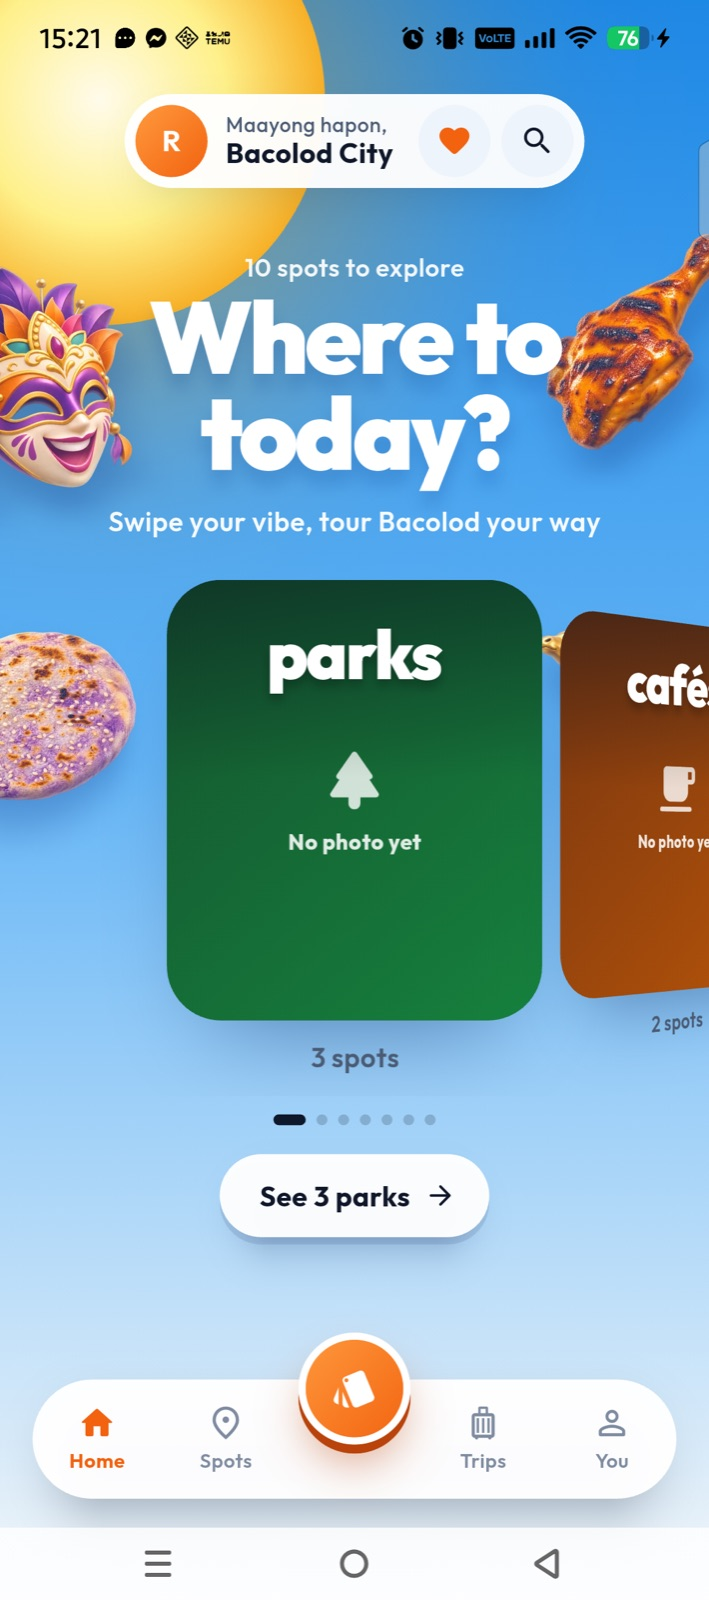
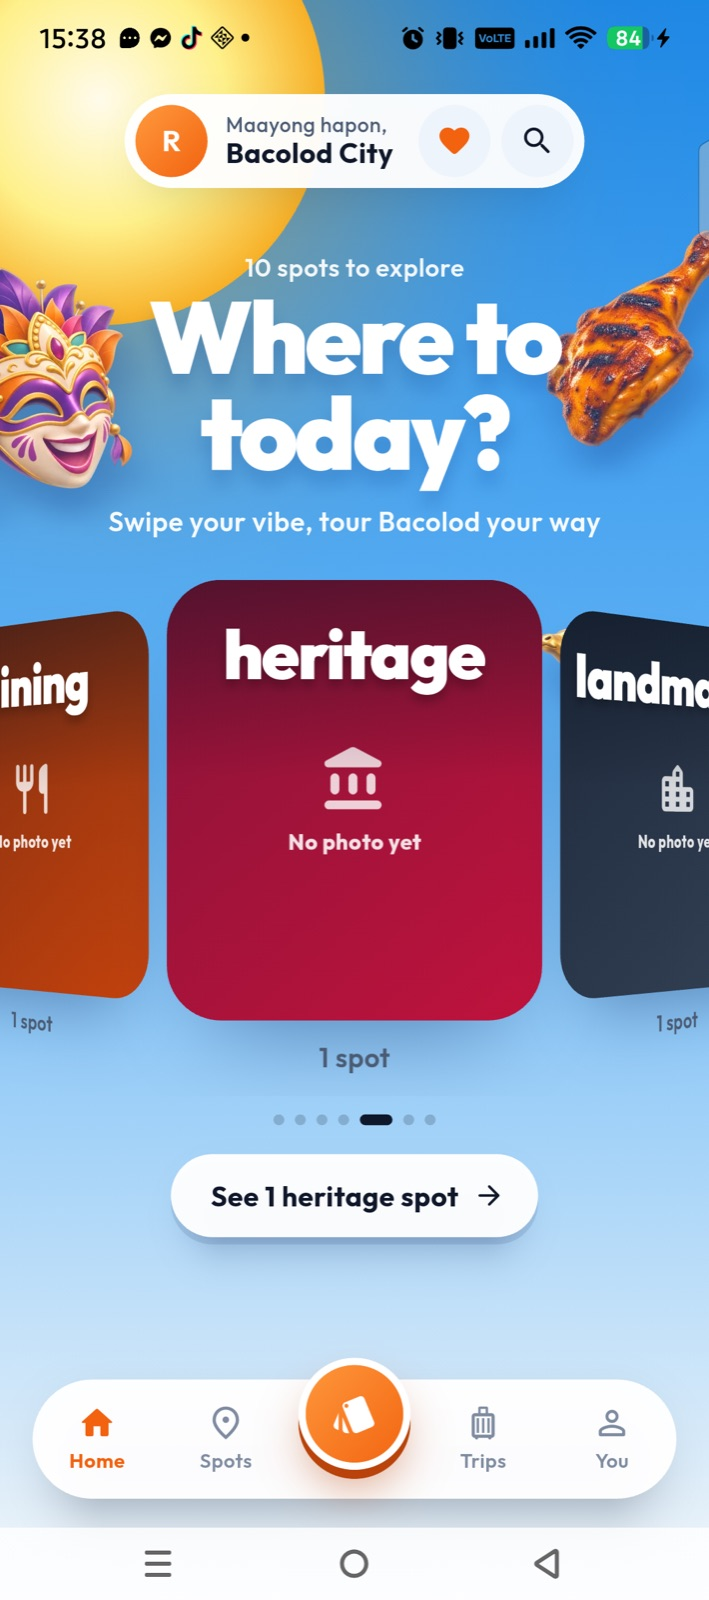
feat: home v3 feedback - open on heritage, lower swipe button, rolling close
Carousel always opens on heritage (or the middle card), the swipe button
sits lower in the nav, and tapping it rolls the card a full turn into the
close button at the same spot, with the options clear above it.

diff --git a/frontend/lib/screens/home/home_view.dart b/frontend/lib/screens/home/home_view.dart
@@ -52,6 +52,13 @@ class HomeCategory {
     'landmark': ('landmarks', 'landmark', 'landmarks'),
   };
 
+  /// Where the carousel opens: heritage when present (Roel's choice, so
+  /// cards peek from both sides), otherwise the middle card.
+  static int startPage(List<HomeCategory> cats) {
+    final heritage = cats.indexWhere((c) => c.id == 'heritage');
+    return heritage >= 0 ? heritage : cats.length ~/ 2;
+  }
+
   /// Categories by size (then name), each with a cover that has an
   /// approved photo when one exists. [home v3]
   static List<HomeCategory> fromLocations(
@@ -120,10 +127,8 @@ class HomeView extends StatefulWidget {
 
 class _HomeViewState extends State<HomeView>
     with SingleTickerProviderStateMixin {
-  late final PageController _pages = PageController(
-    viewportFraction: 0.56,
-    initialPage: 0,
-  );
+  /// Created with the first categories so it can open on heritage.
+  PageController? _pages;
   late final AnimationController _float = AnimationController(
     vsync: this,
     duration: const Duration(seconds: 6),
@@ -145,13 +150,20 @@ class _HomeViewState extends State<HomeView>
   void didUpdateWidget(HomeView old) {
     super.didUpdateWidget(old);
     if (_page >= widget.categories.length && widget.categories.isNotEmpty) {
-      _page = 0;
+      _page = HomeCategory.startPage(widget.categories);
     }
   }
 
+  /// Opens on the start page (heritage), so cards peek from both sides.
+  PageController _controllerFor(List<HomeCategory> cats) =>
+      _pages ??= PageController(
+        viewportFraction: 0.56,
+        initialPage: _page = HomeCategory.startPage(cats),
+      );
+
   @override
   void dispose() {
-    _pages.dispose();
+    _pages?.dispose();
     _float.dispose();
     super.dispose();
   }
@@ -160,6 +172,7 @@ class _HomeViewState extends State<HomeView>
   Widget build(BuildContext context) {
     final width = MediaQuery.sizeOf(context).width.clamp(320.0, 430.0);
     final cats = widget.categories;
+    if (cats.isNotEmpty) _controllerFor(cats);
     final current = cats.isEmpty ? null : cats[_page.clamp(0, cats.length - 1)];
 
     return Stack(
@@ -454,16 +467,17 @@ class _HomeViewState extends State<HomeView>
   // --- Category carousel --------------------------------------------------
 
   Widget _carousel(List<HomeCategory> cats) {
+    final pages = _controllerFor(cats);
     return PageView.builder(
       key: const ValueKey('home-carousel'),
-      controller: _pages,
+      controller: pages,
       itemCount: cats.length,
       onPageChanged: (i) => setState(() => _page = i),
       itemBuilder: (context, i) => AnimatedBuilder(
-        animation: _pages,
+        animation: pages,
         builder: (context, child) {
-          final page = _pages.hasClients && _pages.position.haveDimensions
-              ? _pages.page ?? _page.toDouble()
+          final page = pages.hasClients && pages.position.haveDimensions
+              ? pages.page ?? _page.toDouble()
               : _page.toDouble();
           final delta = (i - page).clamp(-1.0, 1.0);
           return Transform(
@@ -490,7 +504,7 @@ class _HomeViewState extends State<HomeView>
       key: ValueKey('home-category-${cat.id}'),
       onTap: () => index == _page
           ? widget.onSeeCategory(cat.id)
-          : _pages.animateToPage(
+          : _pages!.animateToPage(
               index,
               duration: const Duration(milliseconds: 320),
               curve: Curves.easeOutCubic,

diff --git a/frontend/test/home_v3_test.dart b/frontend/test/home_v3_test.dart
@@ -54,6 +54,7 @@ void main() {
         credits: ImageCredits(const []),
       );
       expect(cats.map((c) => c.id), ['park', 'cafe', 'heritage']);
+      expect(HomeCategory.startPage(cats), 2);
       expect(cats.map((c) => c.count), [3, 2, 1]);
       expect(cats[0].word, 'parks');
       expect(cats[0].seeLabel, 'See 3 parks');
@@ -61,6 +62,14 @@ void main() {
       expect(cats[2].seeLabel, 'See 1 heritage spot');
       expect(cats[2].countLabel, '1 spot');
       expect(cats[0].countLabel, '3 spots');
+    });
+
+    test('starts on heritage, or the middle card without one', () {
+      final noHeritage = HomeCategory.fromLocations(
+        _places.where((p) => p.category != 'heritage').toList(),
+        credits: ImageCredits(const []),
+      );
+      expect(HomeCategory.startPage(noHeritage), 1);
     });
 
     test('prefers a place with an approved photo as the cover', () {
@@ -128,8 +137,9 @@ void main() {
       expect(find.text('6 spots to explore'), findsOneWidget);
       expect(find.byKey(const ValueKey('home-headline')), findsOneWidget);
       expect(find.text('3'), findsOneWidget);
-      expect(find.text('parks'), findsOneWidget);
-      expect(find.text('See 3 parks'), findsOneWidget);
+      // Opens on heritage so neighbors can peek from the side.
+      expect(find.text('heritage'), findsOneWidget);
+      expect(find.text('See 1 heritage spot'), findsOneWidget);
       expect(find.text('Maayong Aga, Roel!'), findsNothing);
     });
 
@@ -139,14 +149,14 @@ void main() {
       await tester.tap(find.byKey(const ValueKey('home-saved')));
       await tester.tap(find.byKey(const ValueKey('home-search')));
       await tester.tap(find.byKey(const ValueKey('home-account')));
-      expect(seen, ['see:park', 'saved', 'search', 'account']);
+      expect(seen, ['see:heritage', 'saved', 'search', 'account']);
     });
 
     testWidgets('the see pill follows the carousel', (tester) async {
       await pump(tester);
       await tester.drag(
         find.byKey(const ValueKey('home-carousel')),
-        const Offset(-260, 0),
+        const Offset(260, 0),
       );
       await tester.pump(const Duration(milliseconds: 600));
       expect(find.text('See 2 cafés'), findsOneWidget);

diff --git a/frontend/lib/widgets/lagaw_nav_bar.dart b/frontend/lib/widgets/lagaw_nav_bar.dart
@@ -12,8 +12,9 @@ const _orange = Color(0xFFF2620F);
 const _orangeDeep = Color(0xFFB9430A);
 const _navHeight = 66.0;
 
-/// Raised above the bar, so the swipe button reads as the main action.
-const _orbLift = 26.0;
+/// How far the swipe button rises above the bar: enough to read as the
+/// main action while still sitting in the white pill.
+const _orbLift = 12.0;
 
 /// Floating nav: Home · Spots · swipe card button · Trips · You. [home v3]
 class LagawNavBar extends StatelessWidget {
@@ -234,7 +235,8 @@ class _SwipeMenu extends StatelessWidget {
         Positioned(
           left: 22,
           right: 22,
-          bottom: bottomInset + _navHeight + 22,
+          // Clear of the close button, which sits where the swipe button is.
+          bottom: bottomInset + _navHeight + _orbLift + 20,
           child: Material(
             type: MaterialType.transparency,
             child: Column(
@@ -286,15 +288,21 @@ class _SwipeMenu extends StatelessWidget {
           right: 0,
           bottom: bottomInset + _navHeight - 62 + _orbLift,
           child: Center(
-            child: RotationTransition(
-              turns: reduce
-                  ? const AlwaysStoppedAnimation(0)
-                  : Tween(begin: -0.125, end: 0.0).animate(fade),
-              child: SwipeOrb(
-                key: const ValueKey('swipe-menu-close'),
-                open: true,
-                onTap: close,
-              ),
+            // The card rolls one full turn and becomes the close button;
+            // closing rolls it back. Reduced motion: no roll.
+            child: AnimatedBuilder(
+              animation: animation,
+              builder: (context, _) {
+                final t = Curves.easeOutCubic.transform(animation.value);
+                return Transform.rotate(
+                  angle: reduce ? 0 : (t - 1) * 2 * 3.141592653589793,
+                  child: SwipeOrb(
+                    key: const ValueKey('swipe-menu-close'),
+                    open: reduce || t >= 0.5,
+                    onTap: close,
+                  ),
+                );
+              },
             ),
           ),
         ),

diff --git a/docs/evidence/home-redesign-v3.md b/docs/evidence/home-redesign-v3.md
@@ -15,12 +15,12 @@ The old phone home stacked eight bands: the wordmark and tagline, a header with 
 - **Floating Bacolod elements:** Roel's masskara, chicken inasal, ube piaya and golden carabao.
   - The copies are color-graded to the sky (cooler shadows, warm sun-side light, a soft rim) and shipped as WebP files, about 160 KB in total, with no metadata.
   - They get a sky-tinted drop shadow, are cut off by the screen edges on purpose, and float gently. The floating stops when the system's reduce-motion setting is on.
-- **Category carousel:** the categories with real counts (parks 3, cafés 2, then the 1-spot categories). The side cards bend away in perspective.
+- **Category carousel:** the categories with real counts (parks 3, cafés 2, then the 1-spot categories). The side cards bend away in perspective. It always opens on **heritage** (or the middle card when there is none), so cards peek from both sides.
   - Each cover uses a place with a licensed photo when one exists (#109); otherwise the honest "No photo yet" placeholder.
 - **"See N … →" pill** under the card follows the carousel ("See 3 parks", "See 1 place to eat") and opens Spots with that filter.
 - **Nav:** Home · Spots · raised orange **swipe button** · Trips · **You**. The old dock, the separate orange button and the header's duplicate swipe button are removed on phones.
 - **Swipe menu:** tapping the button dims and blurs the screen and shows "What do you feel like?" with **Start matching** and **Plan a trip**.
-  - The options rise from the button with a quick spring (about 280 ms, staggered), the icon rotates into a dark ×, and tapping outside, × or back closes it.
+  - The options rise from the button with a quick spring (about 280 ms, staggered). The orange card **rolls one full turn** into a dark × on the exact spot of the button, with space between it and the options. Tapping outside, × or back closes it, rolling back.
   - With reduce motion on, it only fades.
 - **You tab:** the account email, Travel preferences, Liked and saved, and Sign out. These already existed, but were hidden behind the avatar.
 - **Font:** Outfit is bundled at weights 400–900 (`assets/fonts`, SIL Open Font License 1.1, license file included) and is now the app's default font.
@@ -49,12 +49,13 @@ The swipe-deck tests now open the deck through the nav menu. The test that asser
 
 | Shot | Check | Result |
 | --- | --- | --- |
-| [v3_1](img/home-v3-android/v3_1.jpg) | Home: "Maayong hapon," (3 PM), 10 spots, floating elements, parks · 3 spots with cafés bending away, "See 3 parks →", the new nav | Pass |
+| [v3_1](img/home-v3-android/v3_1.jpg) | Home opens on **heritage** (Roel's choice) with dining and landmarks peeking on both sides; "See 1 heritage spot →"; the swipe button sits lower, into the white nav | Pass |
 | [v3_2](img/home-v3-android/v3_2.jpg) | Carousel mid-way: dining · 1 spot between art and heritage; pill reads "See 1 place to eat" | Pass |
 | [v3_3](img/home-v3-android/v3_3.jpg) | Swipe menu: dimmed and blurred, Start matching / Plan a trip, × in the button's place | Pass |
 | [v3_4](img/home-v3-android/v3_4.jpg) | Start matching opens the swipe deck | Pass |
 | [v3_5](img/home-v3-android/v3_5.jpg) | "See 3 parks →" opens Spots with exactly the 3 parks; header "Maayong hapon!", no duplicate swipe button | Pass |
 | [v3_6](img/home-v3-android/v3_6.jpg) | You tab: account, Travel preferences, Liked and saved, Sign out | Pass |
+| [v3_7](img/home-v3-android/v3_7_roll.jpg) | Frames from a screen recording: the orange card **rolls a full turn** into the dark ×, which lands on the button's spot, while the options rise with space above the × | Pass |
 
 **Notes**
 - No photos are uploaded to staging yet (#109), so the category covers show the honest "No photo yet" placeholder. They switch to the licensed photos with credits once the upload is done.

diff --git a/docs/sprint-log.md b/docs/sprint-log.md
@@ -1014,4 +1014,4 @@ is a different operation and was not triggered. See the
   - added the home view, the nav with the animated menu (respecting reduce motion) and the You tab;
   - removed the old dock and the duplicate swipe buttons on phones. The wide/web layout is unchanged.
 - `flutter analyze` is clean, and `flutter test` passes 251 tests. Verified on Roel's Infinix with a release build against staging. See [evidence](evidence/home-redesign-v3.md).
-
+- **Feedback round (Roel):** the carousel now always opens on heritage, so cards peek from both sides; the swipe button sits lower, into the nav; tapping it rolls the card one full turn into the × at the button's exact spot; and the menu options leave space above the ×. Verified on the Infinix, including a frame-by-frame screen recording of the roll. `flutter test` passes 252 tests.
